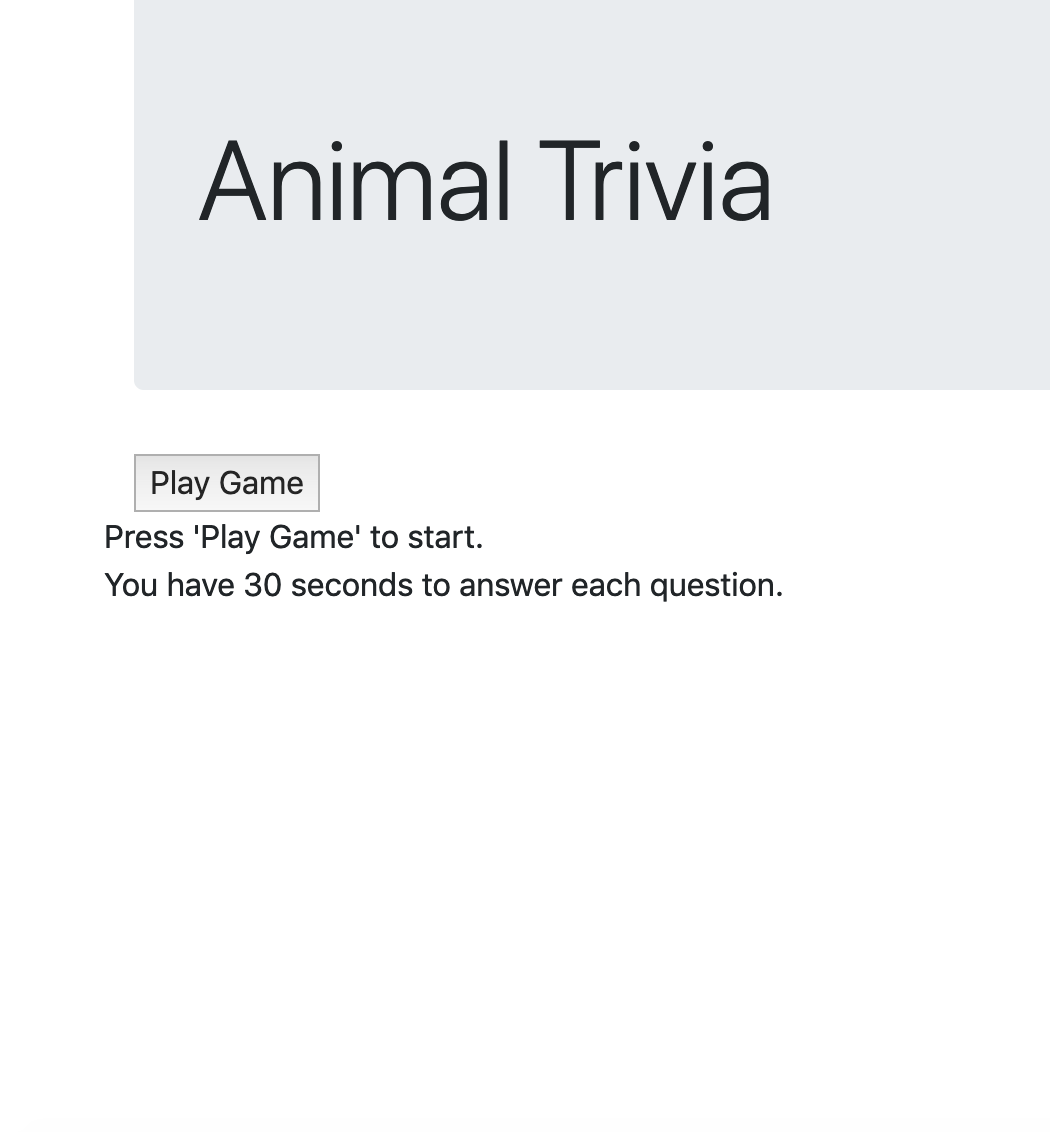
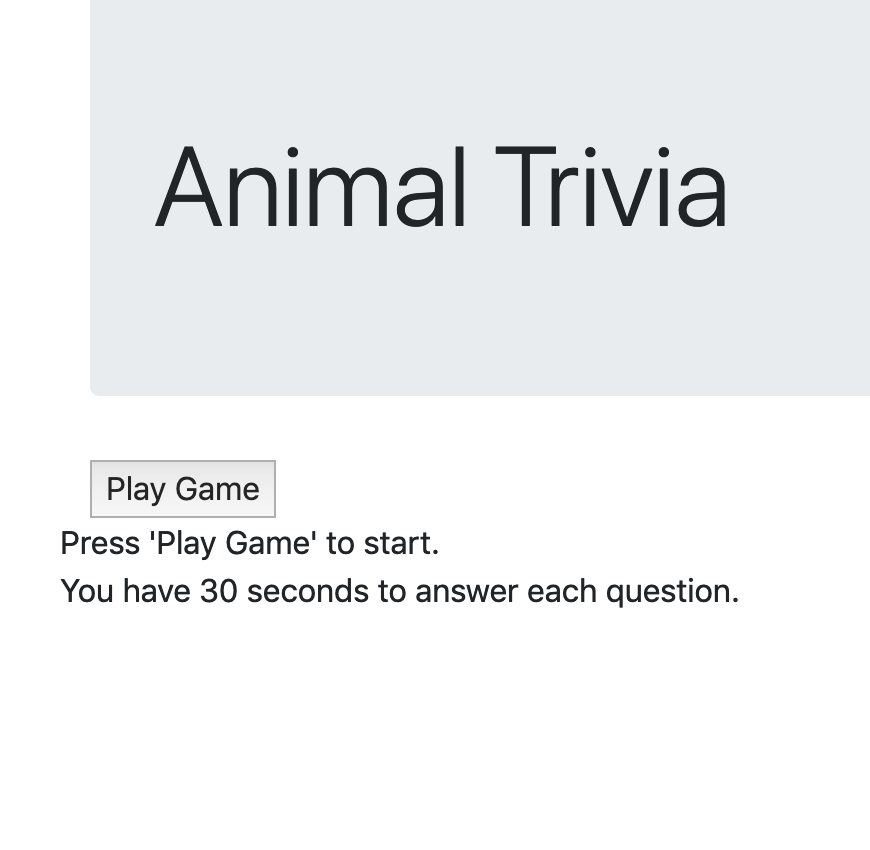
linked gif search and redid trivia screenshot so image heights were a little closer

Changed region(s): [[0.0621, 0.3976, 0.8379, 0.7341], [0.1552, 0.1224, 0.8379, 0.2753]]

diff --git a/portfolio.html b/portfolio.html
@@ -67,15 +67,15 @@
                         <div class="card border">
                             <img src="images/triviagame.png" class="card-img-top img-responsive" alt="trivia game">
                             <div class="card-body bg-info text-white text-center">
-                                <h3>Trivia Game</h3>
+                                <a href="https://snowak34.github.io/TriviaGame/" target="_blank" class="text-white"><h3>Trivia Game</h3></a>
                             </div>
                         </div>
                     </div>
                     <div class="col-lg-4 col-md-5 m-3">
                         <div class="card border">
-                            <img src="images/dog.jpeg" class="card-img-top img-responsive" alt="dog">
+                            <img src="images/gif-search.png" class="card-img-top img-responsive" alt="gif search">
                             <div class="card-body bg-info text-white text-center">
-                                <h3>App 4</h3>
+                                <a href="https://snowak34.github.io/Gif-Search/" target="_blank" class="text-white"><h3>Gif Search</h3></a>
                             </div>
                         </div>
                     </div>
